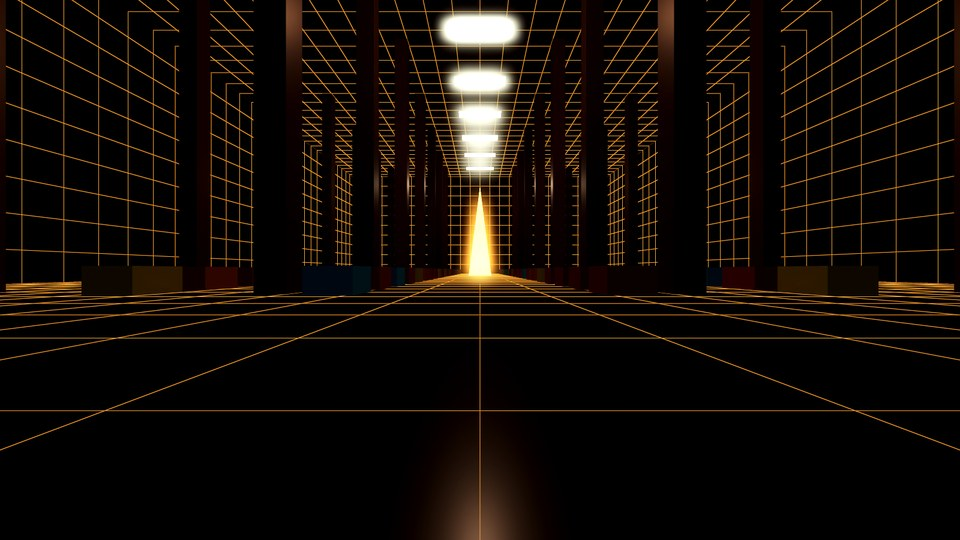
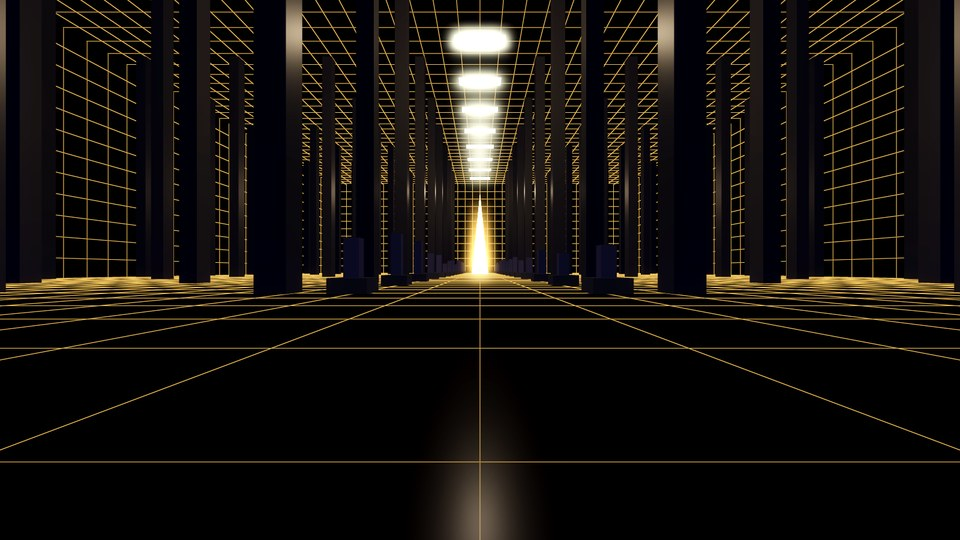
README and screenshots for the dense city
Re-rendered all screenshots (new: an avenue and a flight level; the
canyon and deep views moved to real canyon cells, as the old spots are
now narrow streets). README describes streets and lanes.

Claude-Session: https://claude.ai/code/session_014fznqyezUmWiaiaD6hbUYz

diff --git a/README.md b/README.md
@@ -20,6 +20,8 @@ into spaces far bigger than the blocks that hold them.
 | ![On foot](docs/images/on-foot.jpg) | ![Roof](docs/images/roof.jpg) |
 | **From the top of the fog sea up to the light** | **Inside a canyon, 22 layers down** |
 | ![Shaft](docs/images/shaft-light.jpg) | ![Canyon](docs/images/canyon.jpg) |
+| **A major traffic lane: an avenue through the fog** | **A flight level between two layers** |
+| ![Avenue](docs/images/avenue.jpg) | ![Flight level](docs/images/flight-level.jpg) |
 | **640,000 km down: same precision** | |
 | ![Deep](docs/images/deep.jpg) | |
 | **A magic doorway…** | **…opens into a hall hundreds of metres long** |
@@ -45,6 +47,12 @@ The city is not a heightmap. It is a **3D lattice of 64 m cells**, and every cel
 - **Canyons that go on forever** come from integer rules per district (8×8×8 cells), so they
   stay continuous without needing their neighbours. Vertical shafts depend only on the district
   column (x, z), and X/Z canyons depend only on the district row. Plazas add local open space.
+- **Narrow streets, wide lanes:** blocks are packed tight. Each face sits only 2–6 m back from
+  its cell edge, so neighbours are 4–12 m apart, and 90% of cells hold a block. About one cell
+  boundary in six per axis is a *major traffic lane*: an endless plane where blocks keep 16–18 m
+  back, giving 32–36 m avenues (open up and down) and horizontal flight levels between layers.
+  The decision depends only on the seed and the boundary index, so a lane runs straight through
+  the whole infinite city.
 - **A real city:** blocks are housing, farms, markets, offices, industry and parks, with a mix
   that changes with depth (farms and industry deep down, markets and offices near the roof).
   Every district has exactly one hospital, fire station, security station, school, power
@@ -156,10 +164,11 @@ Git history follows this rhythm (*Propose → Implement → Archive*) for each c
 | `add-block-interiors` | `block-interiors`, `city-layout`, `city-bridges` |
 | `fit-interiors-inside-walls` | `block-interiors` |
 | `add-heavy-fog` | `city-fog`, `city-rendering` |
+| `add-streets-and-lanes` | `city-layout` |
 
 ```bash
 scripts/install-godot.sh              # once: Godot 4.7.2 into .tools/godot/
-scripts/test.sh                       # 275 GUT tests, headless (~90 s)
+scripts/test.sh                       # 280 GUT tests, headless (~90 s)
 scripts/test.sh -gselect=interior     # only test files matching "interior"
 scripts/screenshot.sh out.jpg --doorway --inside           # headless render (needs Xvfb)
 scripts/screenshot.sh out.jpg --interior=flat --pos=100,-1300,60

diff --git a/openspec/changes/add-streets-and-lanes/tasks.md b/openspec/changes/add-streets-and-lanes/tasks.md
@@ -2,11 +2,11 @@
 
 ## 1. Streets and lanes (spec: city-layout)
 
-- [ ] 1.1 Update `test/unit/test_block_geometry.gd` ("Blocks stay inside their cells", "Narrow streets", "Block sizes vary", "Blocks on the floor grid"), add `test/unit/test_lanes.gd` ("Lane frequency", "A lane runs without end", "Same lanes for every generator"), update density and config tests; verify they fail
-- [ ] 1.2 Implement the setbacks, `is_lane()`, new config fields and densities; verify the city-layout tests pass
+- [x] 1.1 Update `test/unit/test_block_geometry.gd` ("Blocks stay inside their cells", "Narrow streets", "Block sizes vary", "Blocks on the floor grid"), add `test/unit/test_lanes.gd` ("Lane frequency", "A lane runs without end", "Same lanes for every generator"), update density and config tests; verify they fail
+- [x] 1.2 Implement the setbacks, `is_lane()`, new config fields and densities; verify the city-layout tests pass
 
 ## 2. Integration and visual check
 
-- [ ] 2.1 Run `scripts/test.sh`; fix any other spec's tests that relied on the old spacing
-- [ ] 2.2 Render a street, an avenue (lane), the roof and an interior; verify by eye; re-render README screenshots and update numbers
-- [ ] 2.3 Run `scripts/test.sh` (all green) and `openspec validate --all --strict`
+- [x] 2.1 Run `scripts/test.sh`; fix any other spec's tests that relied on the old spacing
+- [x] 2.2 Render a street, an avenue (lane), the roof and an interior; verify by eye; re-render README screenshots and update numbers
+- [x] 2.3 Run `scripts/test.sh` (all green) and `openspec validate --all --strict`
